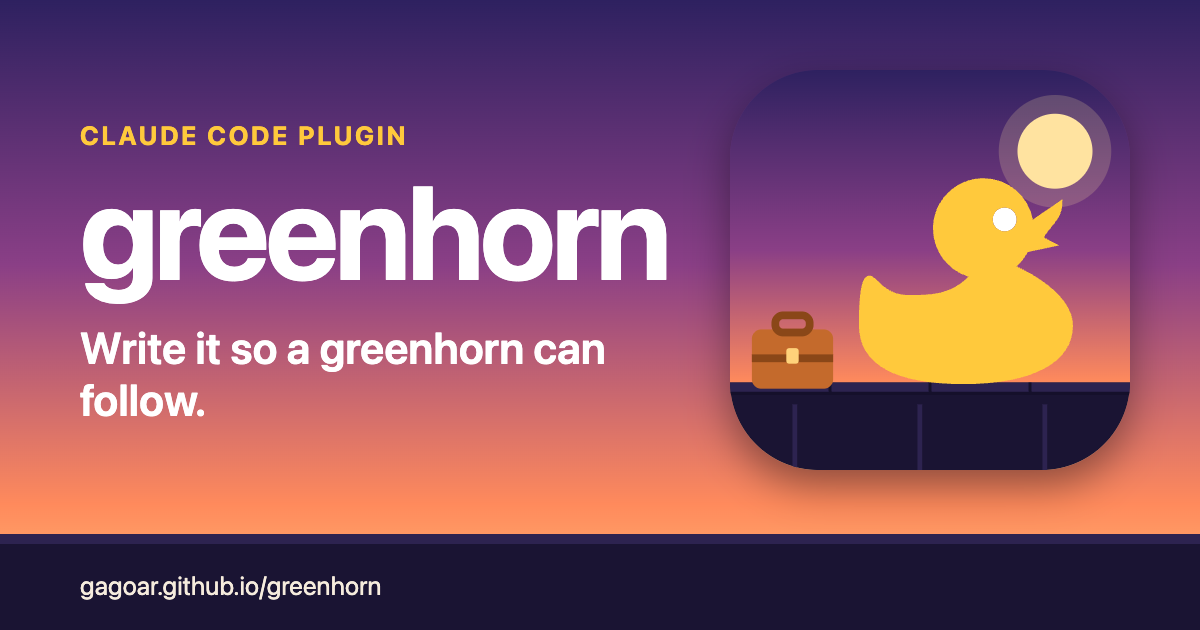
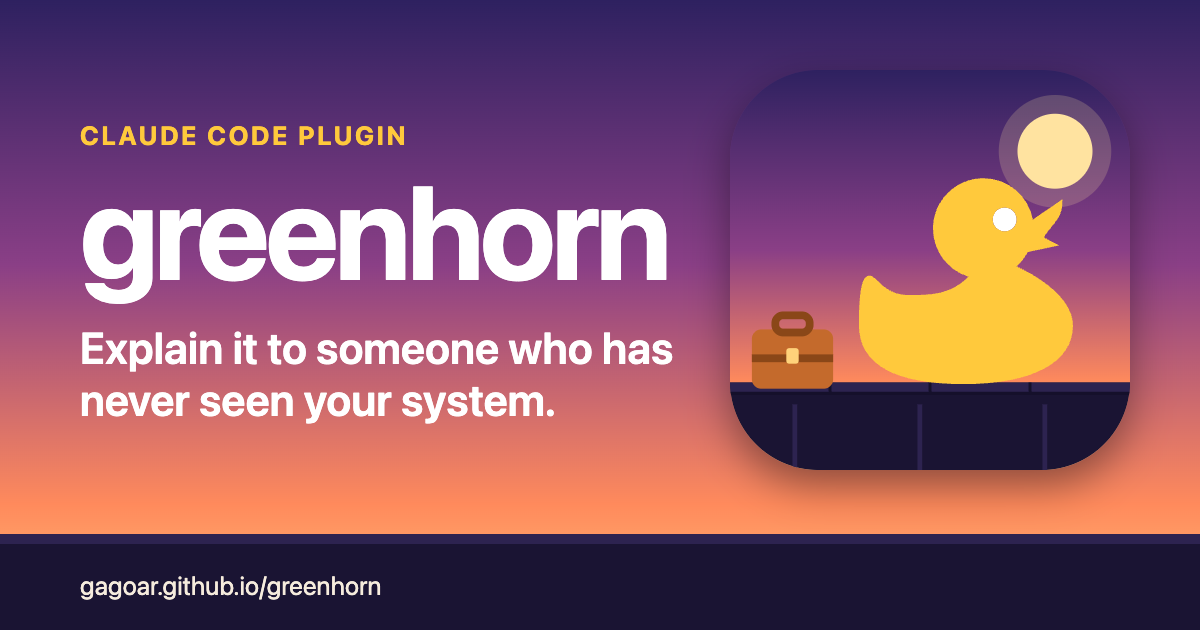
Plain tagline, and ship only through gago-plugins
- The tagline is now "Explain it to someone who has never seen your system." The old one used a sailor's word that means nothing to most readers. The name stays, and one sentence explains it.
- Remove the plugin's own marketplace file. The plugin installs only from the gago-plugins marketplace, and every install line says so.
- Plain titles, descriptions and social text on every page; the social image is rebuilt.

Changed region(s): [[0.0617, 0.5127, 0.5858, 0.6635]]

diff --git a/docs/index.html b/docs/index.html
@@ -3,23 +3,23 @@
 <head>
 <meta charset="utf-8">
 <meta name="viewport" content="width=device-width, initial-scale=1">
-<title>greenhorn: write it so a newcomer can follow</title>
-<meta name="description" content="A Claude Code plugin that rewrites technical text for a reader who is new to your system. It shows where a stranger gets lost and answers each gap from your code.">
+<title>greenhorn: explain technical text to someone new to your system</title>
+<meta name="description" content="A Claude Code plugin that rewrites technical text for a reader who has never seen your system. It finds where a stranger gets lost, answers each gap from your code, and puts one real example first.">
 <meta name="theme-color" content="#2E2160">
 <link rel="icon" type="image/svg+xml" href="assets/icon.svg">
 <link rel="canonical" href="https://gagoar.github.io/greenhorn/">
 <meta property="og:type" content="website">
 <meta property="og:site_name" content="greenhorn">
-<meta property="og:title" content="greenhorn: write it so a newcomer can follow">
-<meta property="og:description" content="A Claude Code plugin that rewrites technical text for a reader who is new to your system. It shows where a stranger gets lost and answers each gap from your code.">
+<meta property="og:title" content="greenhorn: explain technical text to someone new to your system">
+<meta property="og:description" content="A Claude Code plugin that rewrites technical text for a reader who has never seen your system. It finds where a stranger gets lost, answers each gap from your code, and puts one real example first.">
 <meta property="og:url" content="https://gagoar.github.io/greenhorn/">
 <meta property="og:image" content="https://gagoar.github.io/greenhorn/assets/og.png">
 <meta property="og:image:width" content="1200">
 <meta property="og:image:height" content="630">
 <meta property="og:image:alt" content="greenhorn: a rubber duck on a pier at sunset, next to a suitcase">
 <meta name="twitter:card" content="summary_large_image">
-<meta name="twitter:title" content="greenhorn: write it so a newcomer can follow">
-<meta name="twitter:description" content="A Claude Code plugin that rewrites technical text for a reader who is new to your system. It shows where a stranger gets lost and answers each gap from your code.">
+<meta name="twitter:title" content="greenhorn: explain technical text to someone new to your system">
+<meta name="twitter:description" content="A Claude Code plugin that rewrites technical text for a reader who has never seen your system. It finds where a stranger gets lost, answers each gap from your code, and puts one real example first.">
 <meta name="twitter:image" content="https://gagoar.github.io/greenhorn/assets/og.png">
 <link rel="stylesheet" href="assets/site.css">
 <script type="application/ld+json">{
@@ -28,7 +28,7 @@
  "name": "greenhorn",
  "applicationCategory": "DeveloperApplication",
  "operatingSystem": "macOS, Linux, Windows (Claude Code with Node 22.18 or later)",
- "description": "A Claude Code plugin that rewrites technical text for a reader who is new to your system. It shows where a stranger gets lost and answers each gap from your code.",
+ "description": "A Claude Code plugin that rewrites technical text for a reader who has never seen your system. It finds where a stranger gets lost, answers each gap from your code, and puts one real example first.",
  "url": "https://gagoar.github.io/greenhorn/",
  "softwareVersion": "0.1.0",
  "license": "https://opensource.org/licenses/MIT",
@@ -46,8 +46,8 @@
 </head>
 <body>
 <a class="skip" href="#main">Skip to content</a>
-<header class="hero"><div class="wrap"><nav class="nav" aria-label="Main"><a class="brand" href="index.html"><img src="assets/icon.svg" alt="" width="32" height="32">greenhorn</a><a href="index.html" aria-current="page">Home</a><a href="guide.html">Guide</a><a href="evidence.html">Evidence</a><a href="https://github.com/gagoar/greenhorn">GitHub</a></nav><div class="hero-body"><div class="hero-text"><h1>Write it so a greenhorn can follow.</h1><p class="lead">greenhorn is a Claude Code plugin that rewrites technical text for a reader who is new to your system.</p><pre class="install"><code>/plugin marketplace add gagoar/greenhorn
-/plugin install greenhorn@greenhorn</code></pre></div><img class="hero-art" src="assets/icon.svg" alt="greenhorn icon: a rubber duck on a pier at sunset, next to a suitcase" width="210" height="210"></div></div></header>
+<header class="hero"><div class="wrap"><nav class="nav" aria-label="Main"><a class="brand" href="index.html"><img src="assets/icon.svg" alt="" width="32" height="32">greenhorn</a><a href="index.html" aria-current="page">Home</a><a href="guide.html">Guide</a><a href="evidence.html">Evidence</a><a href="https://github.com/gagoar/greenhorn">GitHub</a></nav><div class="hero-body"><div class="hero-text"><h1>Explain it to someone who has never seen your system.</h1><p class="lead">greenhorn is a Claude Code plugin that rewrites technical text for a reader who is new to your system.</p><pre class="install"><code>/plugin marketplace add gagoar/gago-plugins
+/plugin install greenhorn@gago-plugins</code></pre></div><img class="hero-art" src="assets/icon.svg" alt="greenhorn icon: a rubber duck on a pier at sunset, next to a suitcase" width="210" height="210"></div></div></header>
 <main id="main">
 <section id="a-worked-example">
 <h2>A worked example</h2>
@@ -67,7 +67,7 @@ $ node scripts/check-text.ts testdata/readme/after.md
 </section>
 <section id="how-it-works">
 <h2>How it works</h2>
-<p>A greenhorn is a newcomer who just got off the boat. Here, it is a reader with no access to your repository and no hint of the topic. The steps below run in order.</p>
+<p>The steps below run in order. They start with a reader that has no access to your repository and no hint of the topic.</p>
 <ol><li>A cold reader reads your text. The cold reader is a read-only agent. It lists each word, step or jump where a stranger gets lost. These places are the stumbles. For each stumble it writes the question it would ask.</li><li>Claude answers each stumble from your code, the linked issue or your docs. If no source backs an answer, the item goes on a list of open questions for you. Claude invents nothing.</li><li>The rewrite opens with the gist. The gist is one sentence that says what the text is about.</li><li>Next comes one example with real values.</li><li>Last comes the mechanism. The mechanism is the part that explains how the thing works. Each term gets a short definition at its first use.</li></ol>
 <p>The cold reader also writes one sentence for what it thinks the text says. If that sentence differs from what you meant, the text fails. You can run only the cold reader with <code>/greenhorn:test</code>. It rewrites nothing.</p>
 </section>
@@ -79,8 +79,12 @@ $ node scripts/check-text.ts testdata/readme/after.md
 </section>
 <section id="install">
 <h2>Install</h2>
-<ol><li><code>/plugin marketplace add gagoar/greenhorn</code></li><li><code>/plugin install greenhorn@greenhorn</code></li></ol>
-<p>greenhorn also needs two other plugins, <code>unmistakable</code> and <code>iceberg</code>, from the <code>gago-plugins</code> marketplace. If one is missing, <code>/greenhorn:explain</code> stops and prints the command to install it. The <a href="guide.html">guide</a> lists every command. The <a href="evidence.html">evidence</a> page says what we verified and what we did not.</p>
+<ol><li><code>/plugin marketplace add gagoar/gago-plugins</code></li><li><code>/plugin install greenhorn@gago-plugins</code></li></ol>
+<p>The two helper plugins, <code>unmistakable</code> and <code>iceberg</code>, install with greenhorn. If one is missing, <code>/greenhorn:explain</code> stops and prints the command to install it. The <a href="guide.html">guide</a> lists every command. The <a href="evidence.html">evidence</a> page says what we verified and what we did not.</p>
+</section>
+<section id="about-the-name">
+<h2>About the name</h2>
+<p>A greenhorn is a newcomer. The plugin is named for the reader it writes for.</p>
 </section>
 </main>
 <footer class="foot"><div class="wrap"><p>MIT &middot; v0.1.0 &middot; by <a href="https://github.com/gagoar">gagoar</a></p><p>Icon: &ldquo;Bath toy&rdquo; by SUPRIYANTO YANTO (kamalm030391), from <a href="https://thenounproject.com/icon/bath-toy-2990119/">Noun Project</a> (<a href="https://creativecommons.org/licenses/by/3.0/">CC BY 3.0</a>), recolored. <a href="https://github.com/gagoar/greenhorn/blob/main/CREDITS.md">Credits</a></p><p class="links"><a href="https://github.com/gagoar/greenhorn">Source</a><a href="https://github.com/gagoar/greenhorn/issues">Issues</a></p></div></footer>

diff --git a/docs/guide.html b/docs/guide.html
@@ -31,30 +31,18 @@
   {
    "@type": "HowToStep",
    "position": 1,
-   "name": "Add the greenhorn marketplace: /plugin marketplace add gagoar/greenhorn",
-   "text": "Add the greenhorn marketplace: /plugin marketplace add gagoar/greenhorn"
+   "name": "Add the marketplace: /plugin marketplace add gagoar/gago-plugins",
+   "text": "Add the marketplace: /plugin marketplace add gagoar/gago-plugins"
   },
   {
    "@type": "HowToStep",
    "position": 2,
-   "name": "Add the marketplace for the two helper plugins: /plugin marketplace add gagoar/gago-plugins",
-   "text": "Add the marketplace for the two helper plugins: /plugin marketplace add gagoar/gago-plugins"
+   "name": "Install greenhorn: /plugin install greenhorn@gago-plugins",
+   "text": "Install greenhorn: /plugin install greenhorn@gago-plugins"
   },
   {
    "@type": "HowToStep",
    "position": 3,
-   "name": "Install the helpers: /plugin install unmistakable@gago-plugins and /plugin install iceberg@gago-plugins",
-   "text": "Install the helpers: /plugin install unmistakable@gago-plugins and /plugin install iceberg@gago-plugins"
-  },
-  {
-   "@type": "HowToStep",
-   "position": 4,
-   "name": "Install greenhorn: /plugin install greenhorn@greenhorn",
-   "text": "Install greenhorn: /plugin install greenhorn@greenhorn"
-  },
-  {
-   "@type": "HowToStep",
-   "position": 5,
    "name": "Run it on a file: /greenhorn:explain path/to/text.md",
    "text": "Run it on a file: /greenhorn:explain path/to/text.md"
   }
@@ -85,7 +73,7 @@
 <main id="main">
 <section id="install">
 <h2>Install</h2>
-<ol><li>Add the greenhorn marketplace: <code>/plugin marketplace add gagoar/greenhorn</code></li><li>Add the marketplace for the two helper plugins: <code>/plugin marketplace add gagoar/gago-plugins</code></li><li>Install the helpers: <code>/plugin install unmistakable@gago-plugins</code> and <code>/plugin install iceberg@gago-plugins</code></li><li>Install greenhorn: <code>/plugin install greenhorn@greenhorn</code></li><li>Run it on a file: <code>/greenhorn:explain path/to/text.md</code></li></ol>
+<ol><li>Add the marketplace: <code>/plugin marketplace add gagoar/gago-plugins</code></li><li>Install greenhorn: <code>/plugin install greenhorn@gago-plugins</code>. The helper plugins <code>unmistakable</code> and <code>iceberg</code> install with it, because plugin.json declares them as <code>dependencies</code>. If one is missing, the skill stops and prints the command to install it.</li><li>Run it on a file: <code>/greenhorn:explain path/to/text.md</code></li></ol>
 </section>
 <section id="the-two-commands">
 <h2>The two commands</h2>

diff --git a/test/repo.test.ts b/test/repo.test.ts
@@ -86,15 +86,12 @@ function frontmatter(path: string): string {
   return `${block}\n`;
 }
 
-test("plugin.json, package.json and marketplace.json agree on the version", () => {
+test("plugin.json and package.json agree on the version", () => {
   const plugin = manifest();
   assert.match(plugin.version, SEMVER);
   assert.equal(plugin.license, "MIT");
   const pkg: { readonly version: string } = JSON.parse(read("package.json"));
-  const market: { readonly metadata: { readonly version: string }; readonly plugins: readonly { readonly name: string; readonly version: string }[] } = JSON.parse(read(PLUGIN_DIR, "marketplace.json"));
   assert.equal(pkg.version, plugin.version);
-  assert.equal(market.metadata.version, plugin.version);
-  assert.deepEqual(market.plugins.map((entry) => [entry.name, entry.version]), [[plugin.name, plugin.version]]);
 });
 
 test("each skill path in plugin.json exists and has a name and a description", () => {
@@ -188,7 +185,7 @@ test("the README has the sections that the listing links to, and the icon at the
   ["## Privacy", "## Terms", "## License", "## Credits", "## Limits", "## Install"].forEach((heading) => assert.ok(readme.includes(heading), `the README lacks ${heading}`));
   const icon = (JSON.parse(read(PLUGIN_DIR, "plugin.json")) as { readonly icon: string }).icon.replace(ICON_PREFIX, "");
   assert.ok(readme.startsWith(`<img src="${icon}"`) && readme.split("\n")[0]?.includes('width="120"'));
-  assert.ok(readme.includes("/plugin marketplace add gagoar/greenhorn") && readme.includes("/plugin install greenhorn@greenhorn"));
+  assert.ok(readme.includes("/plugin marketplace add gagoar/gago-plugins") && readme.includes("/plugin install greenhorn@gago-plugins") && !readme.includes("greenhorn@greenhorn"));
   assert.ok(readme.includes("untested defaults"));
 });
 

diff --git a/docs/assets/og.html b/docs/assets/og.html
@@ -18,7 +18,7 @@ h1 { font-size: 132px; line-height: 1; letter-spacing: -.03em; margin-bottom: 26
 </head>
 <body>
 <img class="icon" src="icon.svg" alt="">
-<div class="text"><div class="kicker">Claude Code plugin</div><h1>greenhorn</h1><div class="tag">Write it so a greenhorn can follow.</div></div>
+<div class="text"><div class="kicker">Claude Code plugin</div><h1>greenhorn</h1><div class="tag">Explain it to someone who has never seen your system.</div></div>
 <div class="pier"></div>
 <div class="url">gagoar.github.io/greenhorn</div>
 </body>

diff --git a/README.md b/README.md
@@ -2,7 +2,7 @@
 
 # greenhorn
 
-**Write technical text so a newcomer can follow it: find where a stranger gets lost, answer each gap from your code, and show one real example first.**
+**Explain it to someone who has never seen your system.**
 
 greenhorn is a Claude Code plugin. It has two commands:
 
@@ -35,19 +35,13 @@ The checker is shallow. It saw that the "before" text has no example. It did not
 ## Install
 
 ```
-/plugin marketplace add gagoar/greenhorn
-/plugin install greenhorn@greenhorn
-```
-
-greenhorn needs two other plugins, `unmistakable` (skill `asd-ste100`) and `iceberg` (skill `iceberg:edit`). Both come from the `gago-plugins` marketplace:
-
-```
 /plugin marketplace add gagoar/gago-plugins
-/plugin install unmistakable@gago-plugins
-/plugin install iceberg@gago-plugins
+/plugin install greenhorn@gago-plugins
 ```
 
-If one is missing, `/greenhorn:explain` stops and prints the command to install it.
+The two helper plugins, `unmistakable` (skill `asd-ste100`) and `iceberg` (skill `iceberg:edit`), install with greenhorn. If one is missing, `/greenhorn:explain` stops and prints the command to install it.
+
+A greenhorn is a newcomer. The plugin is named for the reader it writes for.
 
 ## How it works
 

diff --git a/skills/explain/SKILL.md b/skills/explain/SKILL.md
@@ -5,7 +5,7 @@ description: >
   A cold reader finds where a stranger gets lost, each gap is answered from the code, the issue or the docs
   (never invented), and the rewrite puts one concrete example before the mechanism. Trigger when the user says
   "explain this to a newcomer", "make this readable for someone new", "the reader does not know this system",
-  "write for a cold reader", "write this so a greenhorn can follow it", "this PR description is too dense for
+  "write for a cold reader", "explain this to someone who has never seen the system", "this PR description is too dense for
   someone new", or runs /greenhorn:explain. Works on a PR description, release notes, a design doc or an
   incident write-up. Skip it when the text already reads well to the target reader.
 argument-hint: "[file-path | pasted text] [--profile smart-outsider|adjacent-engineer|new-hire]"
